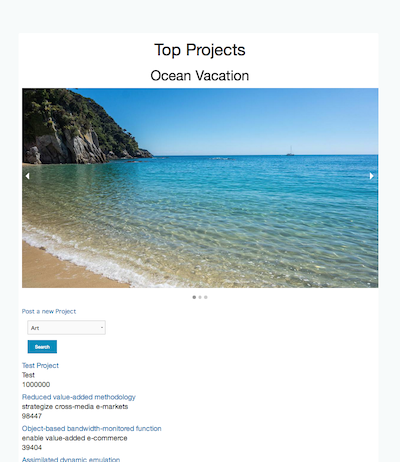
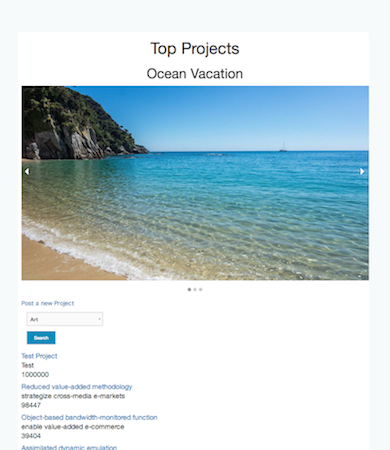
added portfolio thumbnails

diff --git a/app/assets/stylesheets/home.css.scss b/app/assets/stylesheets/home.css.scss
@@ -23,13 +23,13 @@
 
 #mid{
   // background-image: -webkit-linear-gradient(top, #575C5C 0%, #262626 100%);
-  background-color: #F5F5F5
+  background-color: white
 }
 
 #mid h1 {
   width: 668px; height: 100px;
   background: url(portfolio.png); text-indent: -9999px;
-  position: relative; top: 45px; left: 450px;
+  position: relative; top: 45px; left: 50px;
 }
 
 #mid p {
@@ -47,7 +47,7 @@
 #end h1 {
   width: 668px; height: 100px;
   background: url(contact.png); text-indent: -9999px;
-  position: relative; top: 145px; left: 300px;
+  position: relative; top: 145px; left: 50px;
 }
 
 #end p {
@@ -114,7 +114,13 @@ color: black;
 .panel{
   position: absolute;
   top: 10em;
-  width: 600px;
-  height: 700px;
+  width: 100%;
+  height: 500px;
   text-align: center;
+}
+
+.panelp:before{
+  transition: font-size .5s, line-height .5s;
+  -webkit-transition: font-size .5s, line-height .5s;
+
 }
